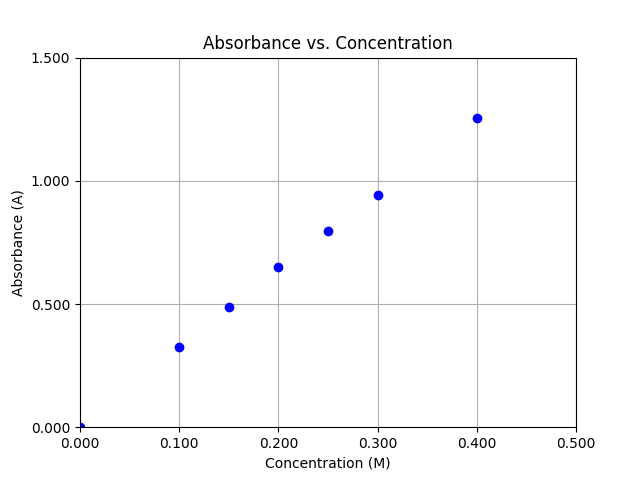
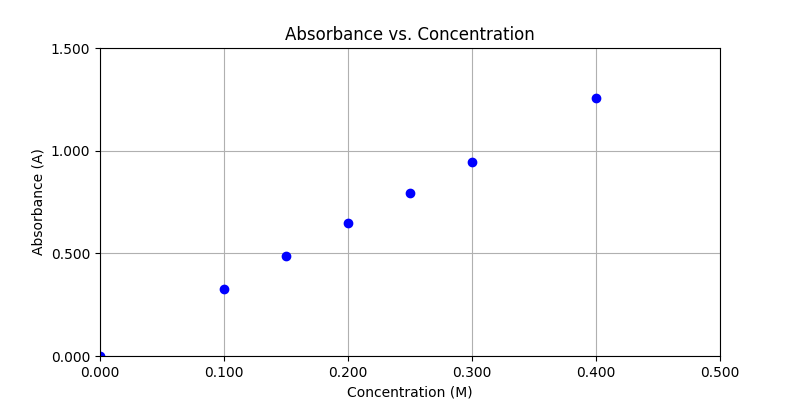
figsize adjusted

diff --git a/reports/test-report/script.py b/reports/test-report/script.py
@@ -51,7 +51,7 @@ for col in concentration_absorbance_table:
     concentration_absorbance_table[col] = [float(val) for val in concentration_absorbance_table[col]]
 print(concentration_absorbance_table)
 # Plot the Absorbance vs. Concentration in a scatter plot
-c_a_fig, c_a_ax = plt.subplots(nrows=1, ncols=1)
+c_a_fig, c_a_ax = plt.subplots(nrows=1, ncols=1, figsize=(8, 4))
 c_a_ax.plot(concentration_absorbance_table["Concentration (M)"], concentration_absorbance_table["Absorbance (A)"], "bo")
 c_a_ax.set_title("Absorbance vs. Concentration")
 c_a_ax.grid(True)
